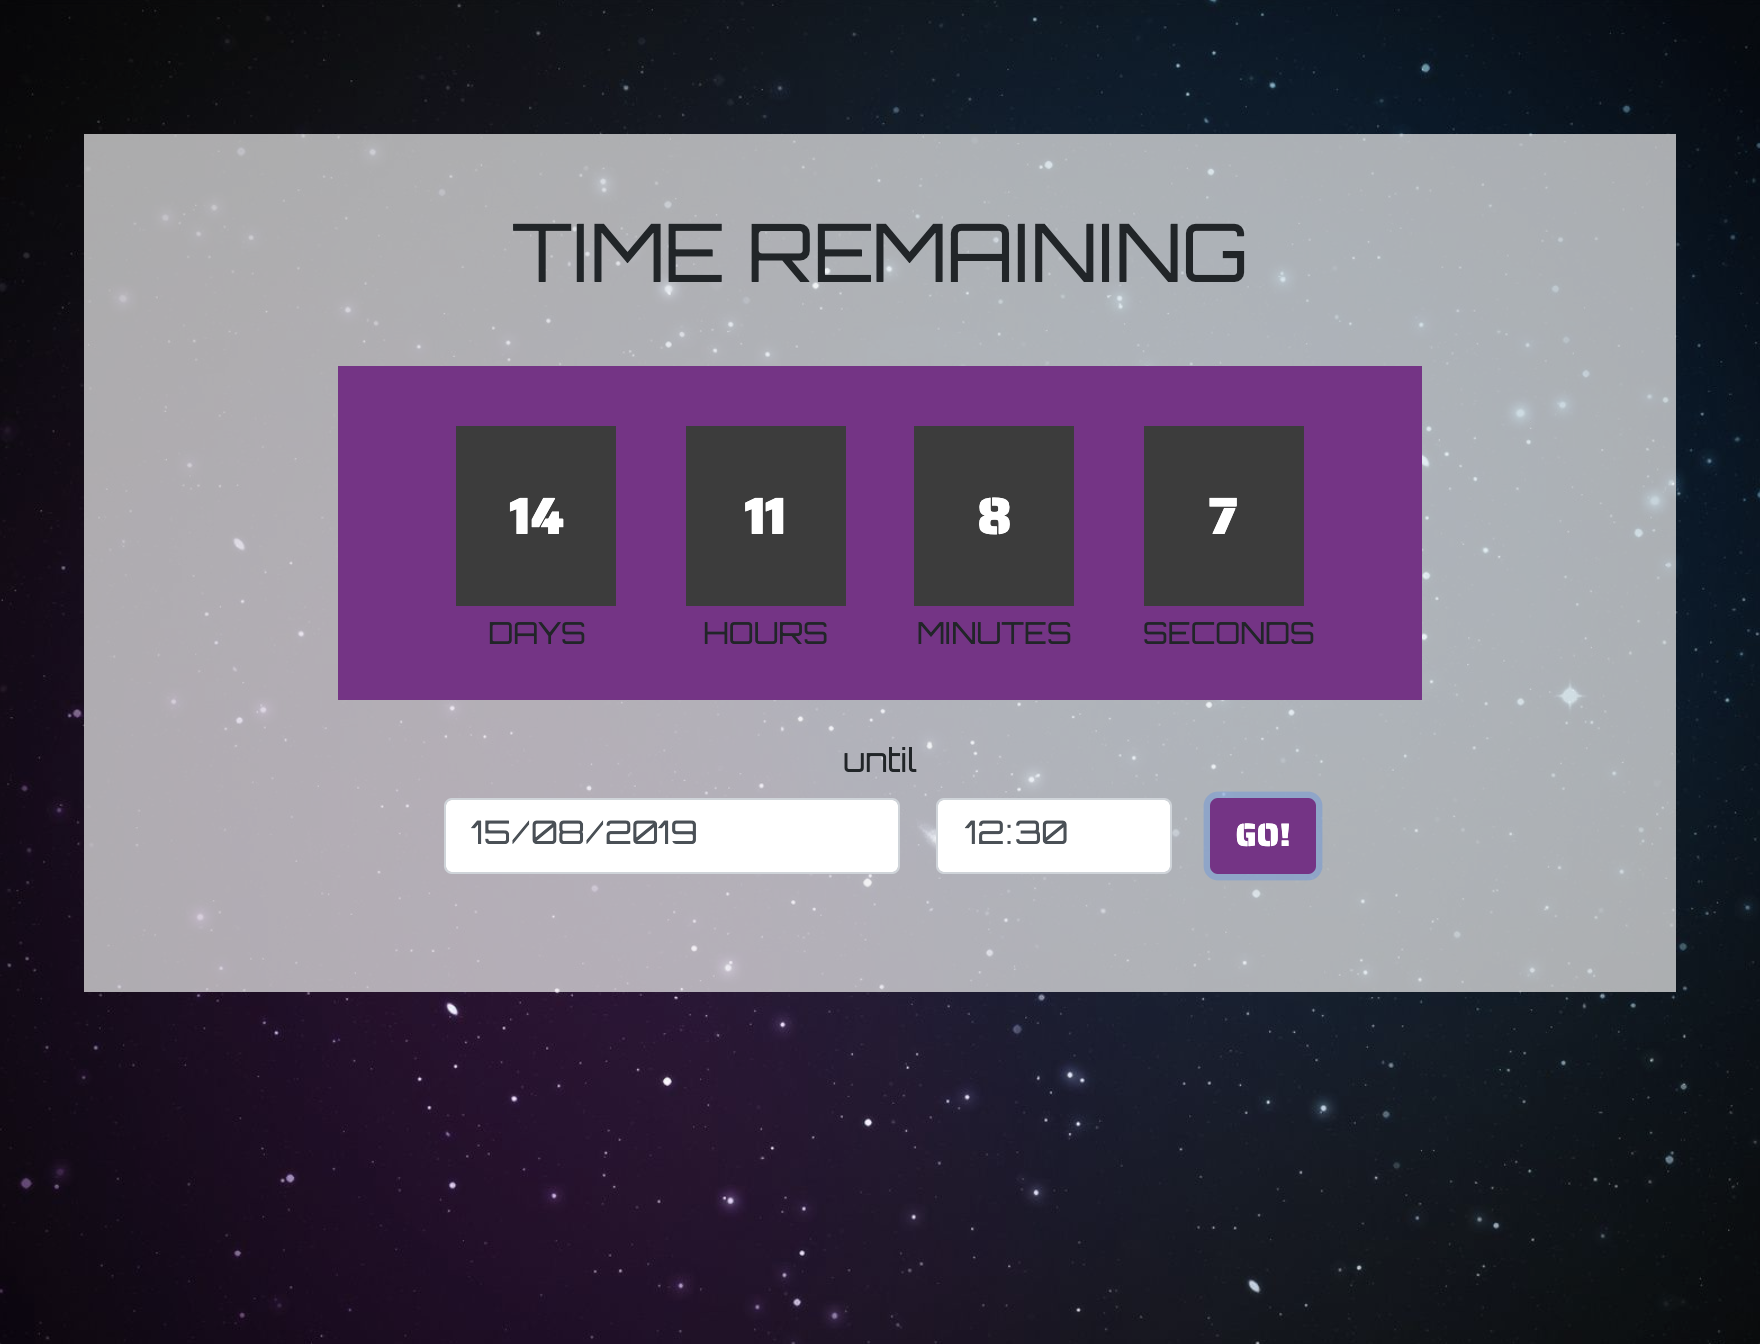
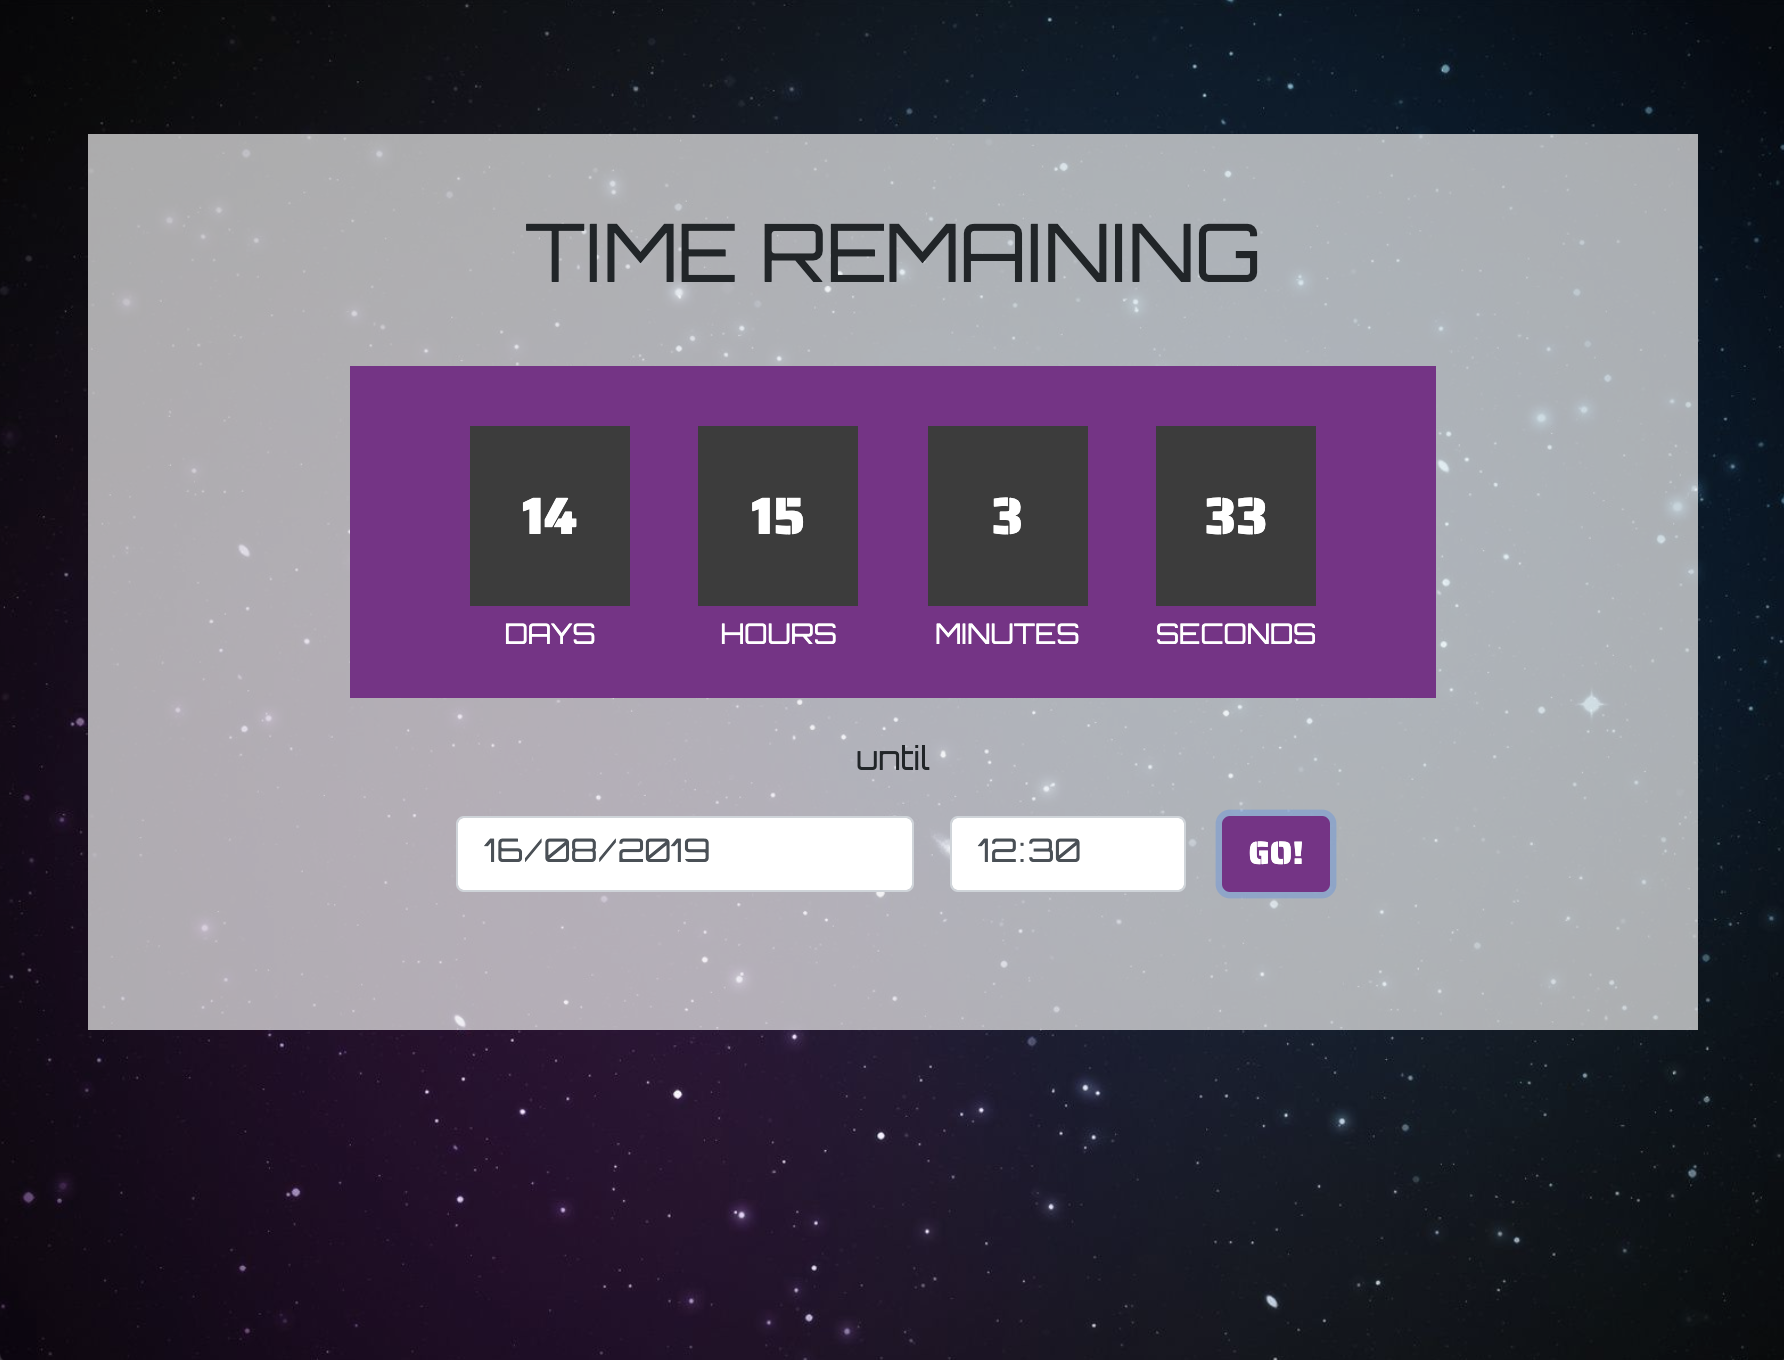
update project description & screenshot

diff --git a/index.html b/index.html
@@ -33,7 +33,7 @@
                                 <h4>Countdown clock</h4>
                             </div>
                             <img src="./project_screenshots/Screenshot 10.png"  alt="project 10 screenshot">
-                            <p>This project focuses on JavaScript date & time objects. The created clock widget counts down the remaining time unitl the date provided by the user.</p>
+                            <p>This project focuses on date & time calculations. Clock widget counts down the remaining time until the date provided by the user.</p>
                         </a>
                         <div class="technology-badges">
                             <span class="badge">HTML5</span>
